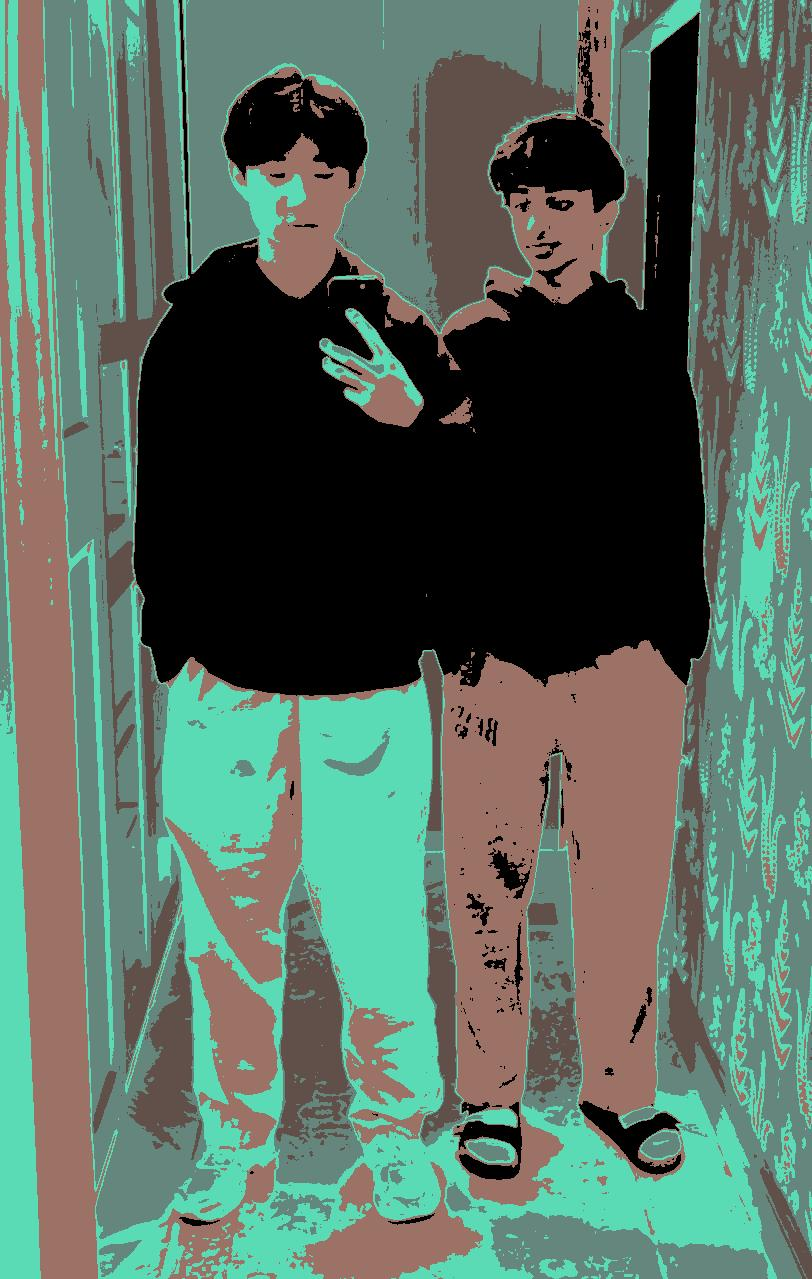
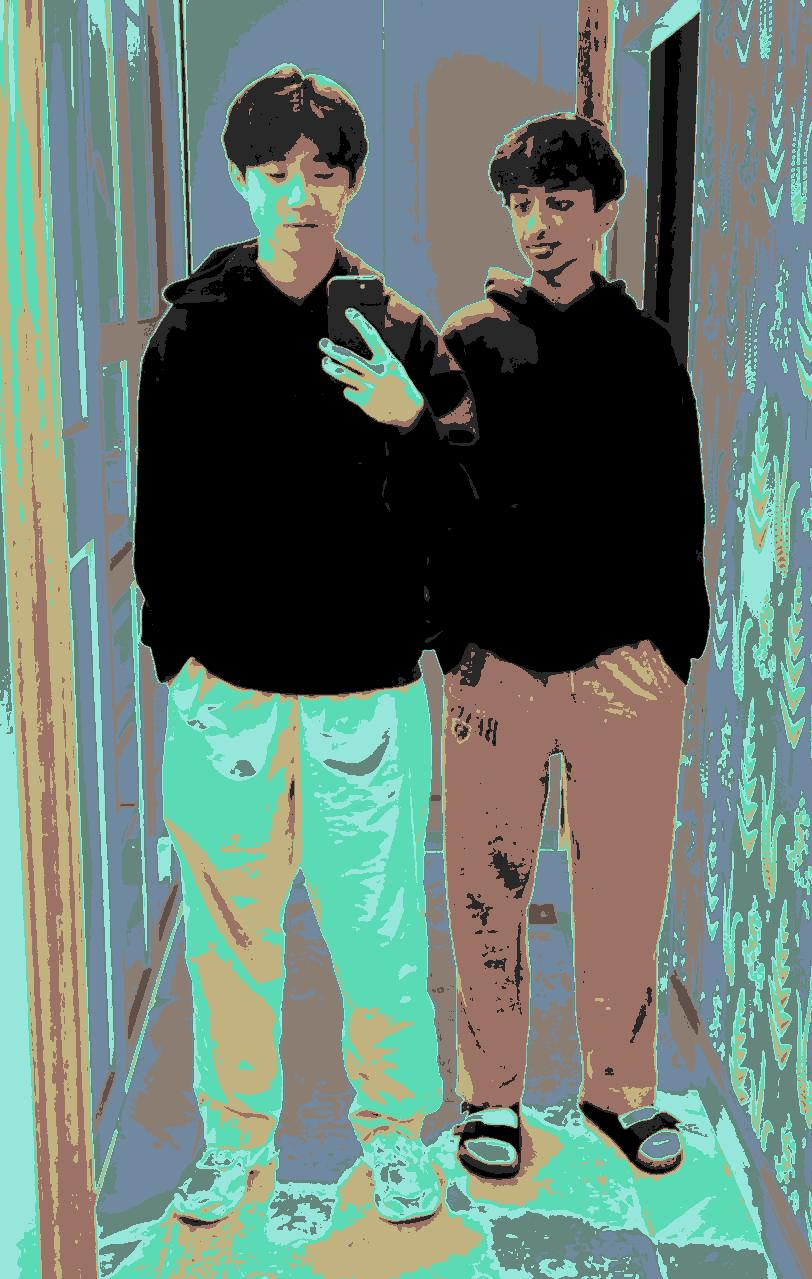
dwd

diff --git a/ColorLabs17/funshepardfairy.java b/ColorLabs17/funshepardfairy.java
@@ -1,0 +1,113 @@
+import java.awt.Color;
+
+public class funshepardfairy
+{
+    public static void main(String[] args)
+    {
+        Picture fairyOriginal = new Picture("images/fairy.jpg");
+        for (int version = 1; version <= 5; version++) {
+            Picture fairy = new Picture(fairyOriginal);
+            Pixel[] pixels = fairy.getPixels();
+            for (Pixel spot : pixels) {
+
+                int red = spot.getRed();
+                int blue = spot.getBlue();
+                int green = spot.getGreen();
+                int grey = (red + blue + green) / 3;
+                switch (version) {
+                    case 1:
+                        if (grey <= 25){
+                            spot.setColor(new Color(0,0,0));  
+                        }
+                        else if (grey <= 51){
+                            spot.setColor(new Color(50,10,10)); 
+                        }         
+                        else if(grey <= 76){
+                            spot.setColor(new Color(170,60,60)); 
+                        }       
+                        else if (grey <= 102){
+                            spot.setColor(new Color(220,160,90)); 
+                        }       
+                        else if (grey <= 128){
+                            spot.setColor(new Color(60,200,160));  
+                        }        
+                        else if (grey <= 153){
+                            spot.setColor(new Color(20,140,200));  
+                        }       
+                        else if (grey <= 178){
+                            spot.setColor(new Color(40,70,110));    
+                        }       
+                        else if (grey <= 204){
+                            spot.setColor(new Color(100,100,100));   
+                        }    
+                        else if (grey <= 230){
+                            spot.setColor(new Color(140,120,90));     
+                        }     
+                        else{
+                            spot.setColor(new Color(80,40,20));
+                        }  
+                        break;
+                    case 2:
+                        if (grey <= 25){
+                            spot.setColor(new Color(0,0,0));}             
+                        else if (grey <= 51){
+                            spot.setColor(new Color(255,0,120));}           
+                        else if (grey <= 76){
+                            spot.setColor(new Color(0,200,255));}           
+                        else if (grey <= 102){
+                            spot.setColor(new Color(255,255,0));}        
+                        else if (grey <= 128){
+                            spot.setColor(new Color(0,255,150));}          
+                        else if (grey <= 153){
+                            spot.setColor(new Color(255,80,0)); }        
+                        else if (grey <= 178){
+                            spot.setColor(new Color(0,90,255)); }         
+                        else if (grey <= 204){
+                            spot.setColor(new Color(255,0,0));  }       
+                        else if (grey <= 230){
+                            spot.setColor(new Color(150,0,255));}       
+                        else{
+                            spot.setColor(new Color(255,255,255));}          
+                        break;
+                    case 3:
+                        if (grey <= 25)spot.setColor(new Color(10,20,5));            
+                        else if (grey <= 51)spot.setColor(new Color(40,70,20));           
+                        else if (grey <= 76)spot.setColor(new Color(100,160,40));          
+                        else if (grey <= 102)spot.setColor(new Color(180,220,100));        
+                        else if (grey <= 128)spot.setColor(new Color(255,140,0));         
+                        else if (grey <= 153)spot.setColor(new Color(255,50,0));       
+                        else if (grey <= 178)spot.setColor(new Color(110,40,20));           
+                        else if (grey <= 204)spot.setColor(new Color(60,30,15));          
+                        else if (grey <= 230)spot.setColor(new Color(20,10,5));           
+                        else spot.setColor(new Color(255,240,180));        
+                        break;
+                    case 4:
+                        if (grey <= 25)       spot.setColor(new Color(0,0,40));           
+                        else if (grey <= 51)  spot.setColor(new Color(0,80,255));            
+                        else if (grey <= 76)  spot.setColor(new Color(130,200,255));      
+                        else if (grey <= 102) spot.setColor(new Color(255,240,200));    
+                        else if (grey <= 128) spot.setColor(new Color(255,180,0));         
+                        else if (grey <= 153) spot.setColor(new Color(255,90,0));      
+                        else if (grey <= 178) spot.setColor(new Color(200,30,0));         
+                        else if (grey <= 204) spot.setColor(new Color(120,0,0));          
+                        else if (grey <= 230) spot.setColor(new Color(60,0,0));      
+                        else                 spot.setColor(new Color(255,255,255));         
+                        break;
+                    case 5:
+                        if (grey <= 25)       spot.setColor(new Color(0,30,20));           
+                        else if (grey <= 51)  spot.setColor(new Color(0,180,130));       
+                        else if (grey <= 76)  spot.setColor(new Color(150,255,210));         
+                        else if (grey <= 102) spot.setColor(new Color(255,220,0));       
+                        else if (grey <= 128) spot.setColor(new Color(255,100,200));       
+                        else if (grey <= 153) spot.setColor(new Color(180,0,130));         
+                        else if (grey <= 178) spot.setColor(new Color(90,0,90));             
+                        else if (grey <= 204) spot.setColor(new Color(50,50,50));            
+                        else if (grey <= 230) spot.setColor(new Color(120,120,120));        
+                        else                 spot.setColor(new Color(255,255,255));          
+                        break;
+                }
+            }
+            fairy.explore();  
+        }
+    }
+}

diff --git a/ColorLabs17/SheparFaireyLab.java b/ColorLabs17/SheparFaireyLab.java
@@ -67,14 +67,14 @@ public class SheparFaireyLab
             range = (big-small) / 4;
             int red = spot2.getRed();
             if (red <= range)
-                spot2.setColor(new Color ( 7,15,168));
+                spot2.setColor(new Color ( 0,0,100));
             else if (red > range && red <= range*2)
-                spot2.setColor(new Color(207, 23, 6));
+                spot2.setColor(new Color(140, 0, 0));
             else if (red > range*2 && red <= range*3){
                 spot2.setColor(new Color(32,181,245));
             }
             else
-                spot2.setColor(new Color(240, 243, 245));
+                spot2.setColor(new Color(220, 199, 161));
         }
         fairy2.explore();
         //NUMBER 3
@@ -83,33 +83,63 @@ public class SheparFaireyLab
             int blue = spot.getBlue();
             int green = spot.getGreen();
             // Convert to grayscale
-            int grey = (red + blue + green) / 3;
-            if (grey >= 0 && grey <= 51) {
-                //Black
+            int grey = (red + blue + green) / 3;            
+            if (grey <= 25) {
+                // black
                 spot.setRed(0);
                 spot.setGreen(0);
                 spot.setBlue(0);
-            } 
-            else if (grey <= 102) {
-                //rose brown
+            
+            } else if (grey <= 51) {
+                // charcoal
+                spot.setRed(40);
+                spot.setGreen(40);
+                spot.setBlue(40);
+            
+            } else if (grey <= 76) {
+                // rose brown
                 spot.setRed(156);
                 spot.setGreen(114);
                 spot.setBlue(103);
-            } 
-            else if (grey <=153) {
-                //light teal
+            
+            } else if (grey <= 102) {
+                // warm sand
+                spot.setRed(194);
+                spot.setGreen(178);
+                spot.setBlue(128);
+            
+            } else if (grey <= 128) {
+                // light teal 
                 spot.setRed(90);
                 spot.setGreen(219);
                 spot.setBlue(181);
-            } 
-            else if (grey<= 204) {
-                //dusty teal/gray green
+            
+            } else if (grey <= 153) {
+                // pastel aqua
+                spot.setRed(150);
+                spot.setGreen(230);
+                spot.setBlue(220);
+            
+            } else if (grey <= 178) {
+                // dusty teal/gray green 
                 spot.setRed(100);
                 spot.setGreen(134);
                 spot.setBlue(124);
-            }
-            else {
-                //dark brown
+            
+            } else if (grey <= 204) {
+                // slate blue
+                spot.setRed(112);
+                spot.setGreen(136);
+                spot.setBlue(160);
+            
+            } else if (grey <= 230) {
+                // warm taupe
+                spot.setRed(140);
+                spot.setGreen(125);
+                spot.setBlue(115);
+            
+            } else {
+                // dark brown 
                 spot.setRed(97);
                 spot.setGreen(79);
                 spot.setBlue(74);

diff --git a/ColorLabs17/peter.java b/ColorLabs17/peter.java
@@ -1,0 +1,49 @@
+
+/**
+ * Write a description of class peter here.
+ *
+ * @author (your name)
+ * @version (a version number or a date)
+ */
+public class peter
+{
+    
+    public static void main(String[] args)
+    {
+        Picture fairy3 = new Picture("images/peter.jpg");
+        Pixel[] fairypixels3 = fairy3.getPixels();
+        //NUMBER 3
+        for (Pixel spot : fairypixels3) {
+            int red = spot.getRed();
+            int blue = spot.getBlue();
+            int green = spot.getGreen();
+            // Convert to grayscale
+            int grey = (red + blue + green) / 3;
+            if (grey >= 0 && grey <= 63) {
+                // Dark Blue
+                spot.setRed(0);
+                spot.setGreen(0);
+                spot.setBlue(100);
+            } 
+            else if (grey <= 127) {
+                // Red
+                spot.setRed(140);
+                spot.setGreen(0);
+                spot.setBlue(0);
+            } 
+            else if (grey <= 191) {
+                // Light Blue
+                spot.setRed(173);
+                spot.setGreen(190);
+                spot.setBlue(210);
+            } 
+            else {
+                // Cream White
+                spot.setRed(220);
+                spot.setGreen(199);
+                spot.setBlue(161);
+            }
+        }
+        fairy3.explore();
+    }
+}
